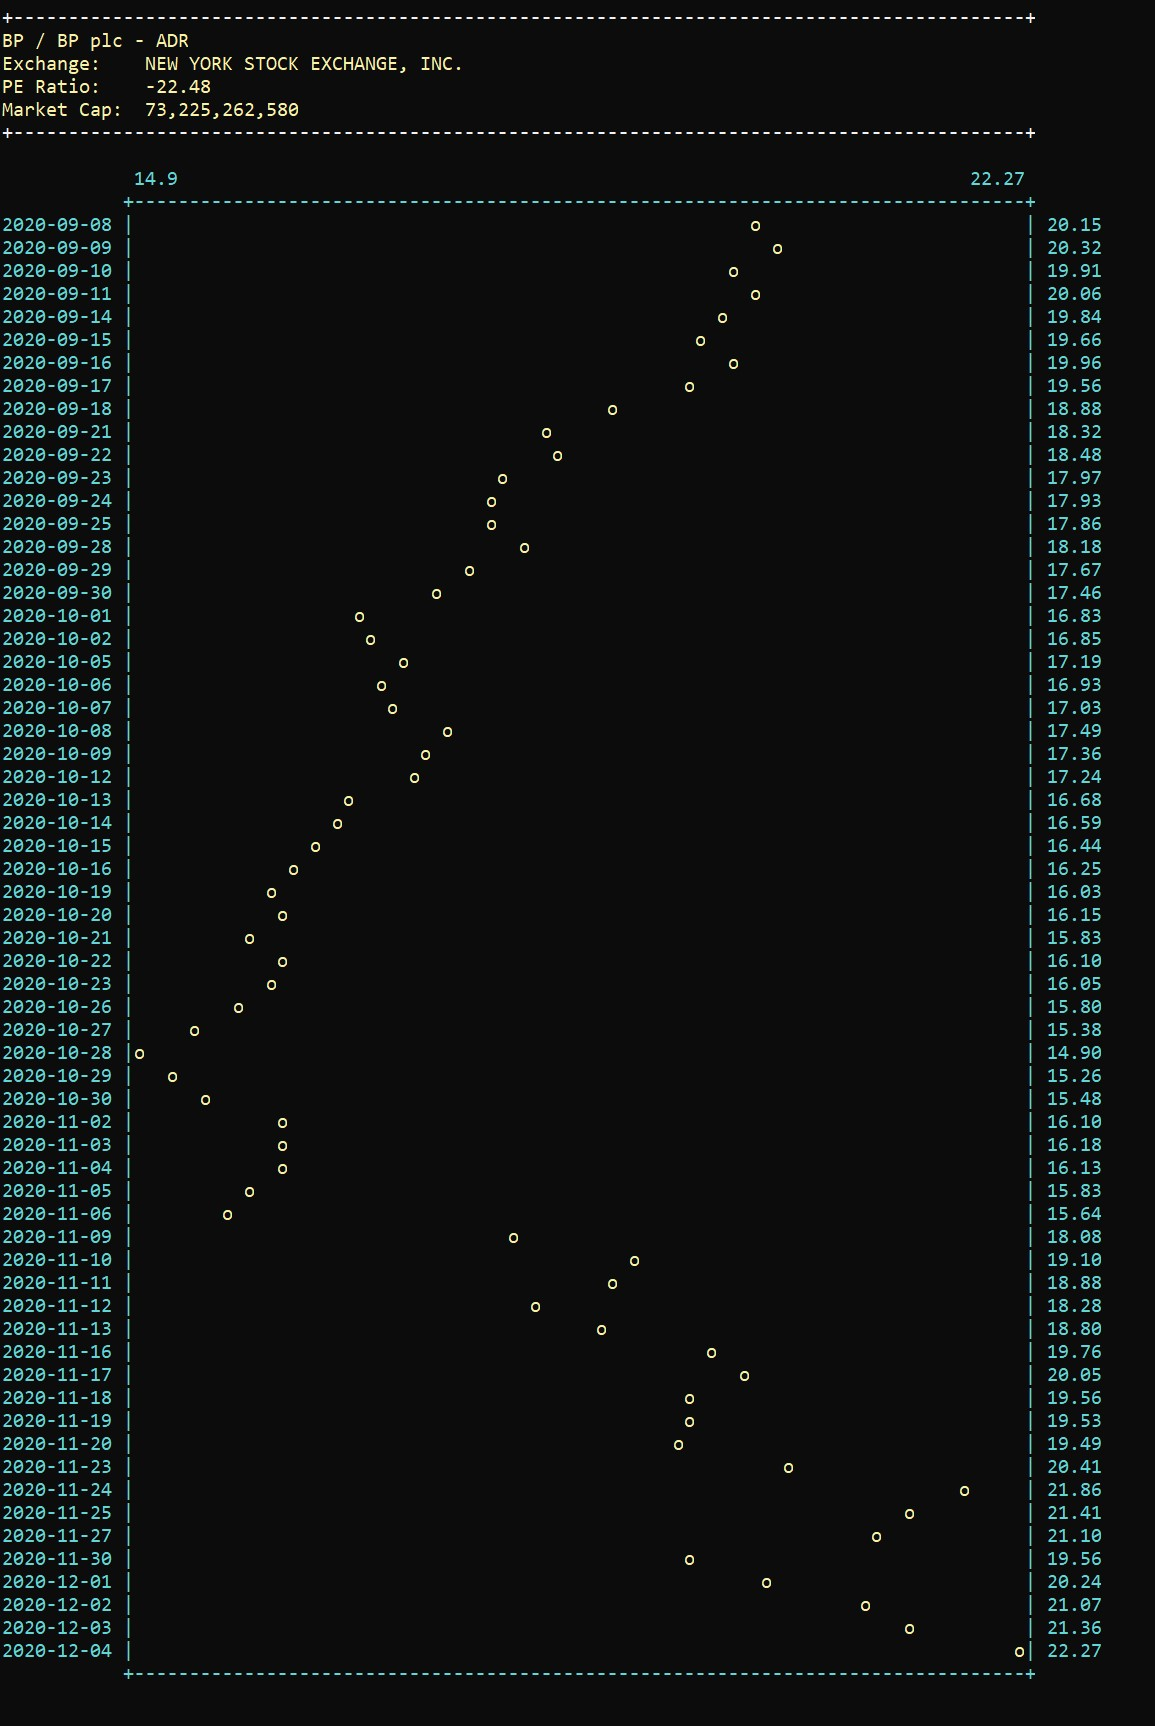
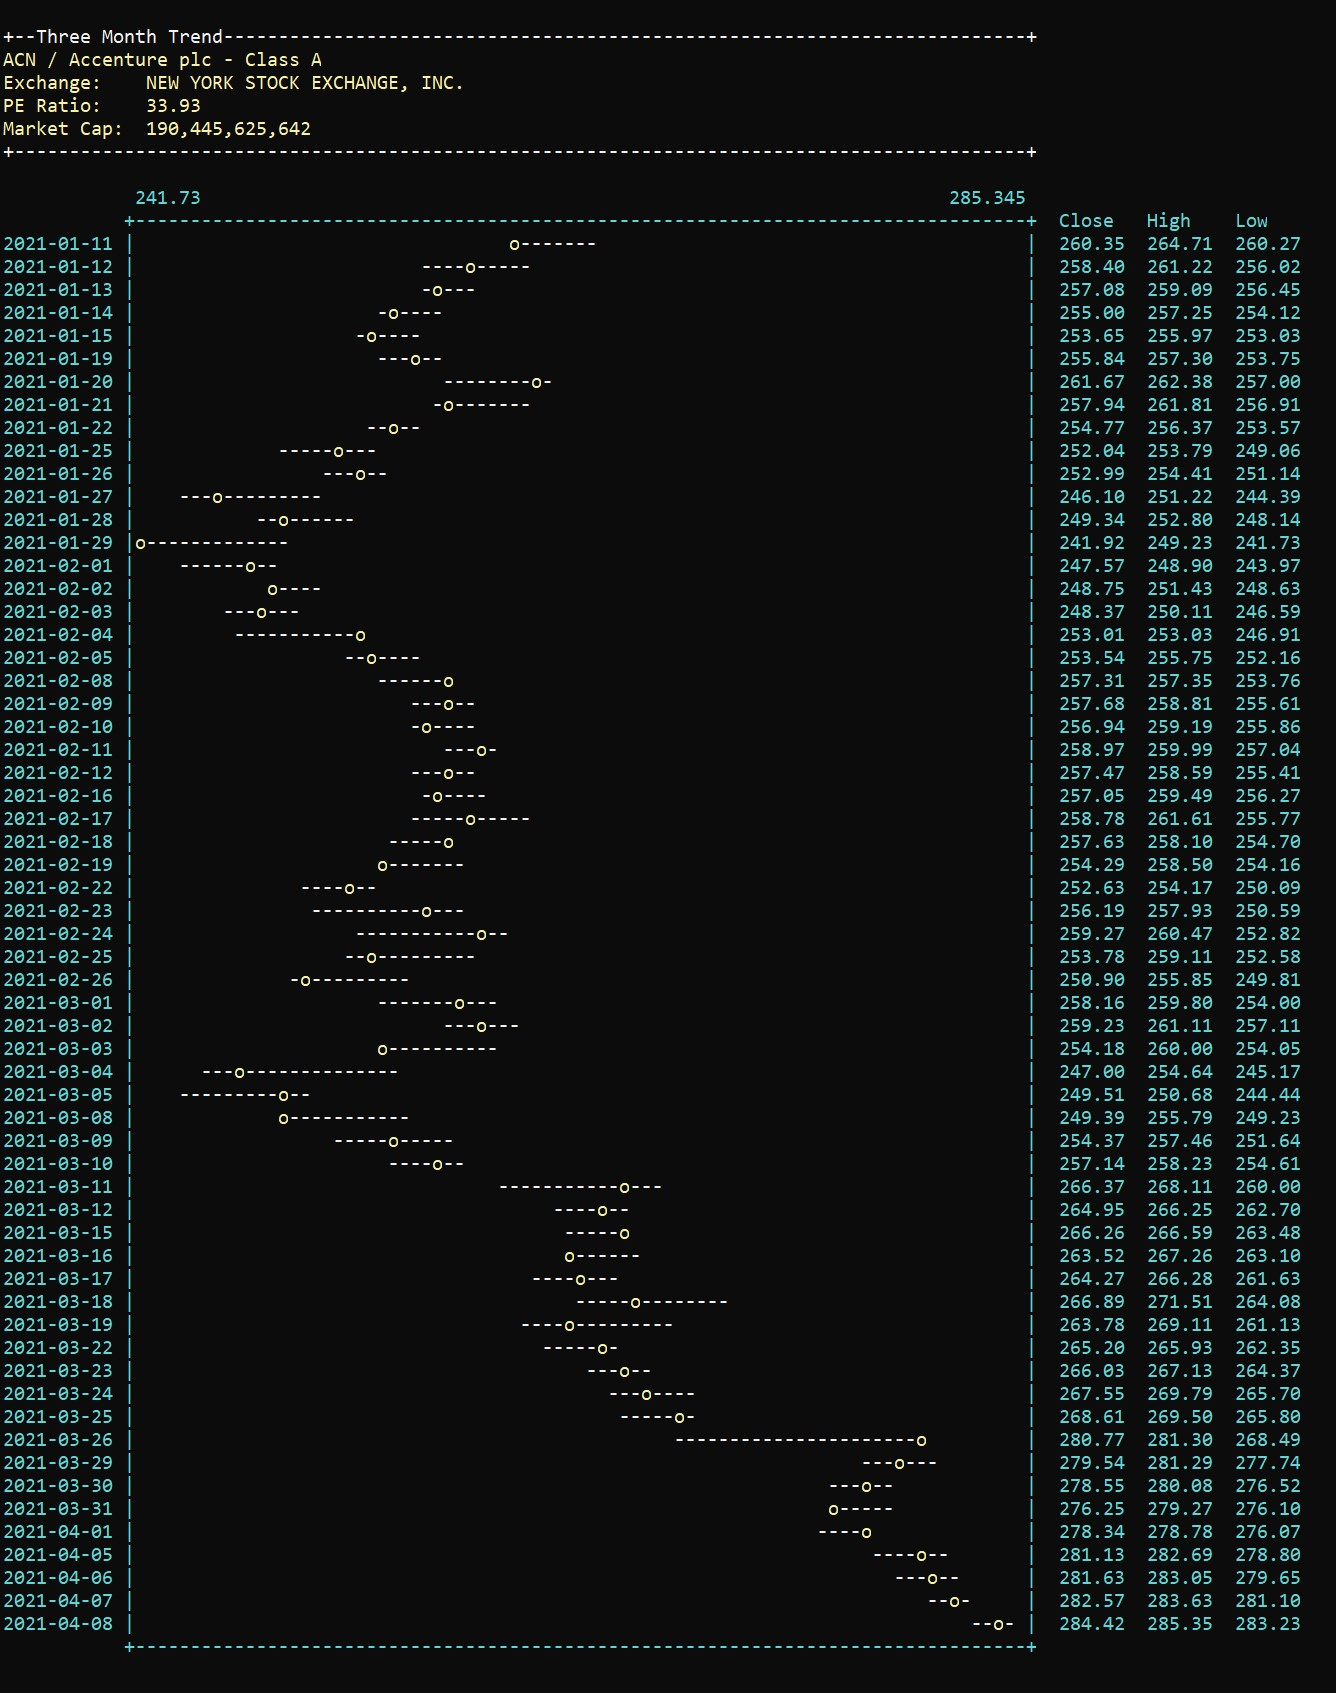
Added daily high/low to trending display & new sandbox mode

diff --git a/src/main/java/org/fross/quoter/HistoricalQuotes.java b/src/main/java/org/fross/quoter/HistoricalQuotes.java
@@ -41,13 +41,18 @@ public class HistoricalQuotes {
 	/**
 	 * GetHistorical3M(): Return map of date/closePrice for 3 months
 	 * 
+	 * In the value portion of the returned map: [0]=close price [1]=day high price [2]=day low price
+	 * 
 	 * @return
 	 */
-	public static Map<String, Float> getHistoricalQuotes(String symb, String token) {
-		String QUOTEURLTEMPLATE = "https://cloud.iexapis.com/stable/stock/SYMBOLHERE/chart/3m?token=TOKENHERE";
+	public static Map<String, Float[]> getHistoricalQuotes(String symb, String token) {
+		String QUOTEURLTEMPLATE = Main.IEXCloudBaseURL + "/stable/stock/SYMBOLHERE/chart/3m?token=TOKENHERE";
 		String quoteURL = "";
 		String rawChartData = "";
-		Map<String, Float> resultMap = new TreeMap<String, Float>();	// TreeMaps are sorted
+
+		// Key is a date string
+		// Value is an array: [0]=close [1]=day high [2]=day low
+		Map<String, Float[]> resultMap = new TreeMap<String, Float[]>();
 
 		// Rewrite the template URL with the provided values
 		Output.debugPrint("Processing Trending for Symbol: '" + symb + "'");
@@ -85,7 +90,17 @@ public class HistoricalQuotes {
 				// In Gson, convert the JSON into a map
 				@SuppressWarnings("unchecked")
 				Map<String, Object> gsonMap = gson.fromJson(rawChartArray[i], Map.class);
-				resultMap.put(gsonMap.get("date").toString(), Float.parseFloat(gsonMap.get("close").toString()));
+
+				// Populate the array (which becomes resultMap value) with data fields from IEXCloud
+				Float tempArray[] = new Float[3];
+				tempArray[0] = Float.parseFloat(gsonMap.get("close").toString());
+				tempArray[1] = Float.parseFloat(gsonMap.get("high").toString());
+				tempArray[2] = Float.parseFloat(gsonMap.get("low").toString());
+
+				// Show the array in debug mode
+				Output.debugPrint(gsonMap.get("date").toString() + "\tClose:" + tempArray[0] + "\tHigh:" + tempArray[1] + "\tLow:" + tempArray[2]);
+
+				resultMap.put(gsonMap.get("date").toString(), tempArray);
 			}
 
 		} catch (Exception ex) {
@@ -96,34 +111,34 @@ public class HistoricalQuotes {
 	}
 
 	/**
-	 * LargestMapValue(): Return largest float value of the provided map
+	 * LargestMapValue(): Return largest daily high value of the provided map
 	 * 
 	 * @param map
 	 */
-	public static Float largestMapValue(Map<String, Float> map) {
+	public static Float largestMapValue(Map<String, Float[]> map) {
 		Float largestValue = Float.MIN_VALUE;
 
-		for (Map.Entry<String, Float> i : map.entrySet()) {
+		for (Map.Entry<String, Float[]> i : map.entrySet()) {
 			String key = i.getKey();
-			if (map.get(key) > largestValue)
-				largestValue = map.get(key);
+			if (map.get(key)[1] > largestValue)
+				largestValue = map.get(key)[1];
 		}
 		return largestValue;
 
 	}
 
 	/**
-	 * SmallestMapValue(): Return smallest float value of the provided map
+	 * SmallestMapValue(): Return smallest daily lowvalue of the provided map
 	 * 
 	 * @param map
 	 */
-	public static Float smallestMapValue(Map<String, Float> map) {
+	public static Float smallestMapValue(Map<String, Float[]> map) {
 		Float smallestValue = Float.MAX_VALUE;
 
-		for (Map.Entry<String, Float> i : map.entrySet()) {
+		for (Map.Entry<String, Float[]> i : map.entrySet()) {
 			String key = i.getKey();
-			if (map.get(key) < smallestValue)
-				smallestValue = map.get(key);
+			if (map.get(key)[2] < smallestValue)
+				smallestValue = map.get(key)[2];
 		}
 		return smallestValue;
 
@@ -139,7 +154,7 @@ public class HistoricalQuotes {
 		Float slotsPerCostUnit;
 
 		// Get the historical quotes
-		Map<String, Float> resultTreeMap = getHistoricalQuotes(symb, token);
+		Map<String, Float[]> resultTreeMap = getHistoricalQuotes(symb, token);
 
 		// Calculate the largest and smallest security value in the historical data
 		Float lv = largestMapValue(resultTreeMap);
@@ -164,19 +179,42 @@ public class HistoricalQuotes {
 		Output.printColorln(Ansi.Color.WHITE, "+" + "-".repeat(GRAPHWIDTH + 12) + "+\n");
 
 		// Display trending title bar
+		int quoteLength = resultTreeMap.get(resultTreeMap.keySet().toArray()[0].toString())[0].toString().length() + 1;
 		Output.printColorln(Ansi.Color.CYAN, " ".repeat(12) + sv + " ".repeat(GRAPHWIDTH - sv.toString().length() - lv.toString().length() + 1) + lv);
-		Output.printColorln(Ansi.Color.CYAN, " ".repeat(11) + "+" + "-".repeat(GRAPHWIDTH + 1) + "+");
+		Output.printColor(Ansi.Color.CYAN, " ".repeat(11) + "+" + "-".repeat(GRAPHWIDTH + 1) + "+");
+		Output.printColorln(Ansi.Color.CYAN, "  Close" + String.format("%" + quoteLength + "s", "High") + String.format("%" + quoteLength + "s", "Low"));
 
 		// Loop through the sorted data and display the graph
-		for (Map.Entry<String, Float> i : resultTreeMap.entrySet()) {
+		for (Map.Entry<String, Float[]> i : resultTreeMap.entrySet()) {
 			String date = i.getKey();
-			Float value = resultTreeMap.get(date);
-			int numSpaces = (int) ((value - sv) * slotsPerCostUnit);
+			Float close = resultTreeMap.get(date)[0];
+			Float dailyHigh = resultTreeMap.get(date)[1];
+			Float dailyLow = resultTreeMap.get(date)[2];
 
-			// Display the row of data
-			Output.printColor(Ansi.Color.CYAN, date + " |");
-			Output.printColor(Ansi.Color.YELLOW, " ".repeat(numSpaces) + "o");
-			Output.printColorln(Ansi.Color.CYAN, " ".repeat(GRAPHWIDTH - numSpaces) + "| " + String.format("%.2f", value));
+			// Calculate the number of spaces (slots) until we get to daily low value
+			int numInitialSpaces = (int) ((dailyLow - sv) * slotsPerCostUnit);
+
+			// Calculate number of dashes from low to close
+			int numLowSpaces = (int) ((close - dailyLow) * slotsPerCostUnit);
+
+			// Calculate number of dashes from close to high
+			int numHighSpaces = (int) ((dailyHigh - close) * slotsPerCostUnit);
+
+			// Calculate number of dashes at the end
+			int numFinalSpaces = (GRAPHWIDTH - numInitialSpaces - numLowSpaces - numHighSpaces);
+
+			try {
+				Output.printColor(Ansi.Color.CYAN, date + " |");
+				Output.print(" ".repeat(numInitialSpaces));
+				Output.printColor(Ansi.Color.WHITE, "-".repeat(numLowSpaces));
+				Output.printColor(Ansi.Color.YELLOW, "o");
+				Output.printColor(Ansi.Color.WHITE, "-".repeat(numHighSpaces));
+				Output.print(" ".repeat(numFinalSpaces));
+				Output.printColorln(Ansi.Color.CYAN,
+						"| " + String.format("%7.2f", close) + " " + String.format("%7.2f", dailyHigh) + " " + String.format("%7.2f", dailyLow));
+			} catch (IllegalArgumentException ex) {
+				System.out.println("**ERROR**");
+			}
 		}
 
 		// Footer

diff --git a/src/main/java/org/fross/quoter/Main.java b/src/main/java/org/fross/quoter/Main.java
@@ -52,7 +52,15 @@ public class Main {
 	public static final String PROPERTIES_FILE = "app.properties";
 	public static final String PREFS_IEXCLOUDTOKEN = "iexcloudtoken";
 	public static final String PREFS_SAVED_SYMBOLS = "savedsymbols";
+	public static final String IEXCLOUDPRODURL = "https://cloud.iexapis.com";
+	public static final String IEXCLOUDSANDBOXURL = "https://sandbox.iexapis.com";
+	public static String IEXCloudBaseURL = IEXCLOUDPRODURL;
 
+	/**
+	 * Main(): Program entry point
+	 * 
+	 * @param args
+	 */
 	public static void main(String[] args) {
 		int optionEntry;
 		String latestTime = "None";
@@ -80,7 +88,7 @@ public class Main {
 		}
 
 		// Process Command Line Options
-		Getopt optG = new Getopt("quote", args, "ckdtx:sriDvzh?");
+		Getopt optG = new Getopt("quote", args, "ckdtx:sriDvzbh?");
 		while ((optionEntry = optG.getopt()) != -1) {
 			switch (optionEntry) {
 			// Turn on Debug Mode
@@ -147,6 +155,11 @@ public class Main {
 			// Disable colorized output
 			case 'z':
 				Output.enableColor(false);
+				break;
+
+			// Enable IEXCloud Sandbox instead of normal production enviornment
+			case 'b':
+				IEXCloudBaseURL = IEXCLOUDSANDBOXURL;
 				break;
 
 			// Access in program help
@@ -226,9 +239,13 @@ public class Main {
 				Symbol symbolData = new Symbol(currentSymbol, Prefs.queryString(PREFS_IEXCLOUDTOKEN));
 
 				// Validate the provided quote is valid
+				// If invalid, remove it from symbol list so it doesn't get processed later with trend or export
 				if (symbolData.get("status").compareTo("Error") == 0) {
-					// Display error and skip to the next iteration
+					// Display error
 					Output.printColorln(Ansi.Color.BLUE, "'" + symbolData.get("symbol") + "' is invalid");
+
+					// Remove this invalid symbol from the list and continue to the next iteration
+					j.remove();
 					continue;
 				}
 
@@ -417,7 +434,7 @@ public class Main {
 			}
 		}
 
-		// Display trending data if -t was provided and there is at least one symbol
+		// Display trending data if -t was provided and there is at least one valid symbol
 		if (trendFlag == true && !symbolList.isEmpty()) {
 			for (String i : symbolList) {
 				HistoricalQuotes.displayTrendingMap(i, Prefs.queryString(PREFS_IEXCLOUDTOKEN));

diff --git a/src/main/java/org/fross/quoter/Help.java b/src/main/java/org/fross/quoter/Help.java
@@ -60,6 +60,7 @@ public class Help {
 		Output.printColorln(Ansi.Color.WHITE, "  -r  Remove saved securities");
 		Output.printColorln(Ansi.Color.WHITE, "  -i  Ignore saved queries for this execution only");
 		Output.printColorln(Ansi.Color.WHITE, "  -z  Disable colorized output");
+		Output.printColorln(Ansi.Color.WHITE, "  -b  Use IEXCloud Sandbox instead of production (remember to set new key");
 
 		Output.printColorln(Ansi.Color.YELLOW, "\nSecurity Information:");
 		Output.printColorln(Ansi.Color.WHITE, "  -d        Display more detailed security information");

diff --git a/src/main/java/org/fross/quoter/Symbol.java b/src/main/java/org/fross/quoter/Symbol.java
@@ -142,7 +142,7 @@ public class Symbol {
 	 * @return
 	 */
 	private static HashMap<String, String> getQuote(String symb, String token) {
-		String QUOTEURLTEMPLATE = "https://cloud.iexapis.com/stable/stock/SYMBOLHERE/quote?token=TOKENHERE";
+		String QUOTEURLTEMPLATE = Main.IEXCloudBaseURL + "/stable/stock/SYMBOLHERE/quote?token=TOKENHERE";
 		String quoteURL = "";
 		String quoteDetail = "";
 		HashMap<String, String> returnData = new HashMap<String, String>();

diff --git a/README.md b/README.md
@@ -33,6 +33,7 @@ Note that if Quoter has been installed via a snap, `quoter -c` is all that is ne
 |-r | Remove saved securities.  If you'd like them back you'll need to re-save them |
 |-i | Ignore saved queries for this execution.  They will remain saved |
 |-z | Disable colorized output|
+|-b | Use the IEXCloud.io sandbox instead of the production environment.  This is just needed during development.  Please note that the sandbox requires a sandbox key, not the production key.  This can be obtained via the IEXCloud dashboard and set with the `-c` command line switch |
 
 #### Security Information
 |Option|Description|
@@ -63,6 +64,8 @@ Example:
 <img align="right" width="300" src="https://github.com/frossm/quoter/blob/master/graphics/ScreenShot-Trending.jpg">This feature will allow for approximately three months of trending.  Quoter will pull the data from IEXCloud.io and show a simple time based graph.  The dates are on the Y axis, an the cost is on the X axis.  It's probably 90 degrees to what I'd like, but it's not a GUI application and there are limited capabilities of doing this in the console.  
 
 It's executed by giving Quoter the **`-t`** command line switch.  If there are 5 symbols on the command line, it will trend them all.
+
+The display will show you the last three months of data with the daily range and the close price.
 
 Please note that this call to IEXCloud is weighted heavily and will use quite a few of your allowed monthly calls.  However, given you get 500,000 calls per month, there is probably plenty if it's not massively over used.
 
